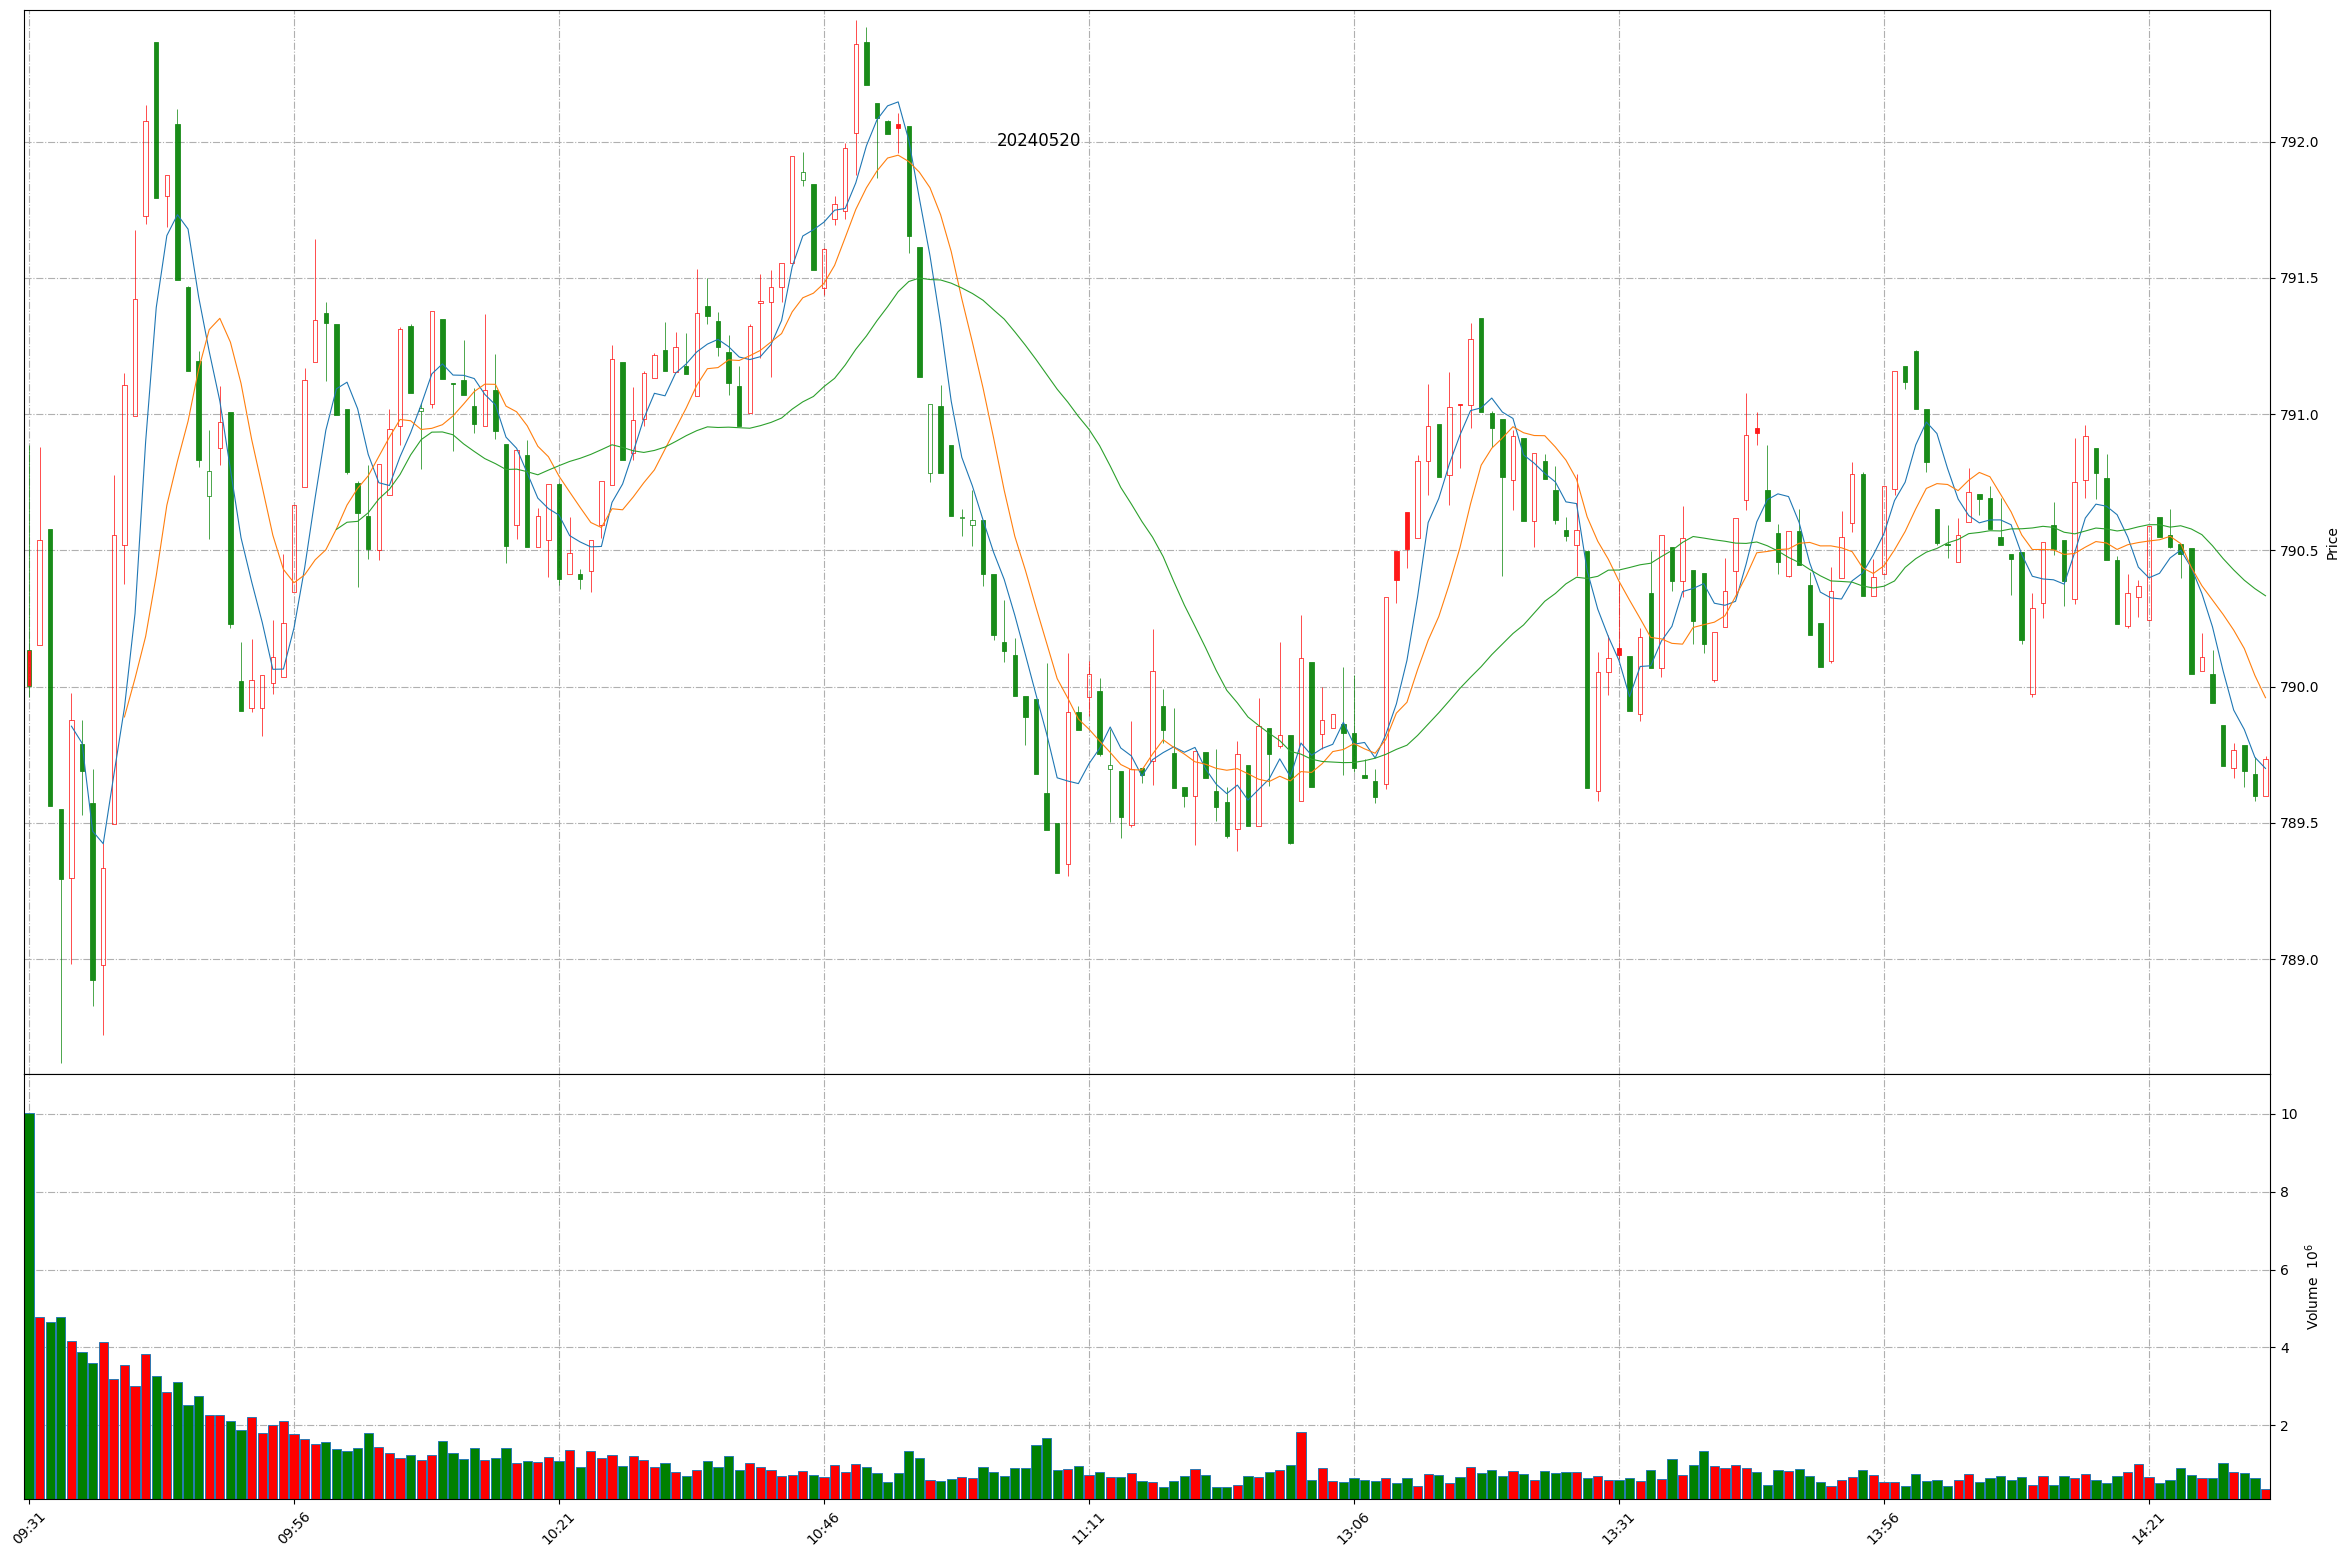
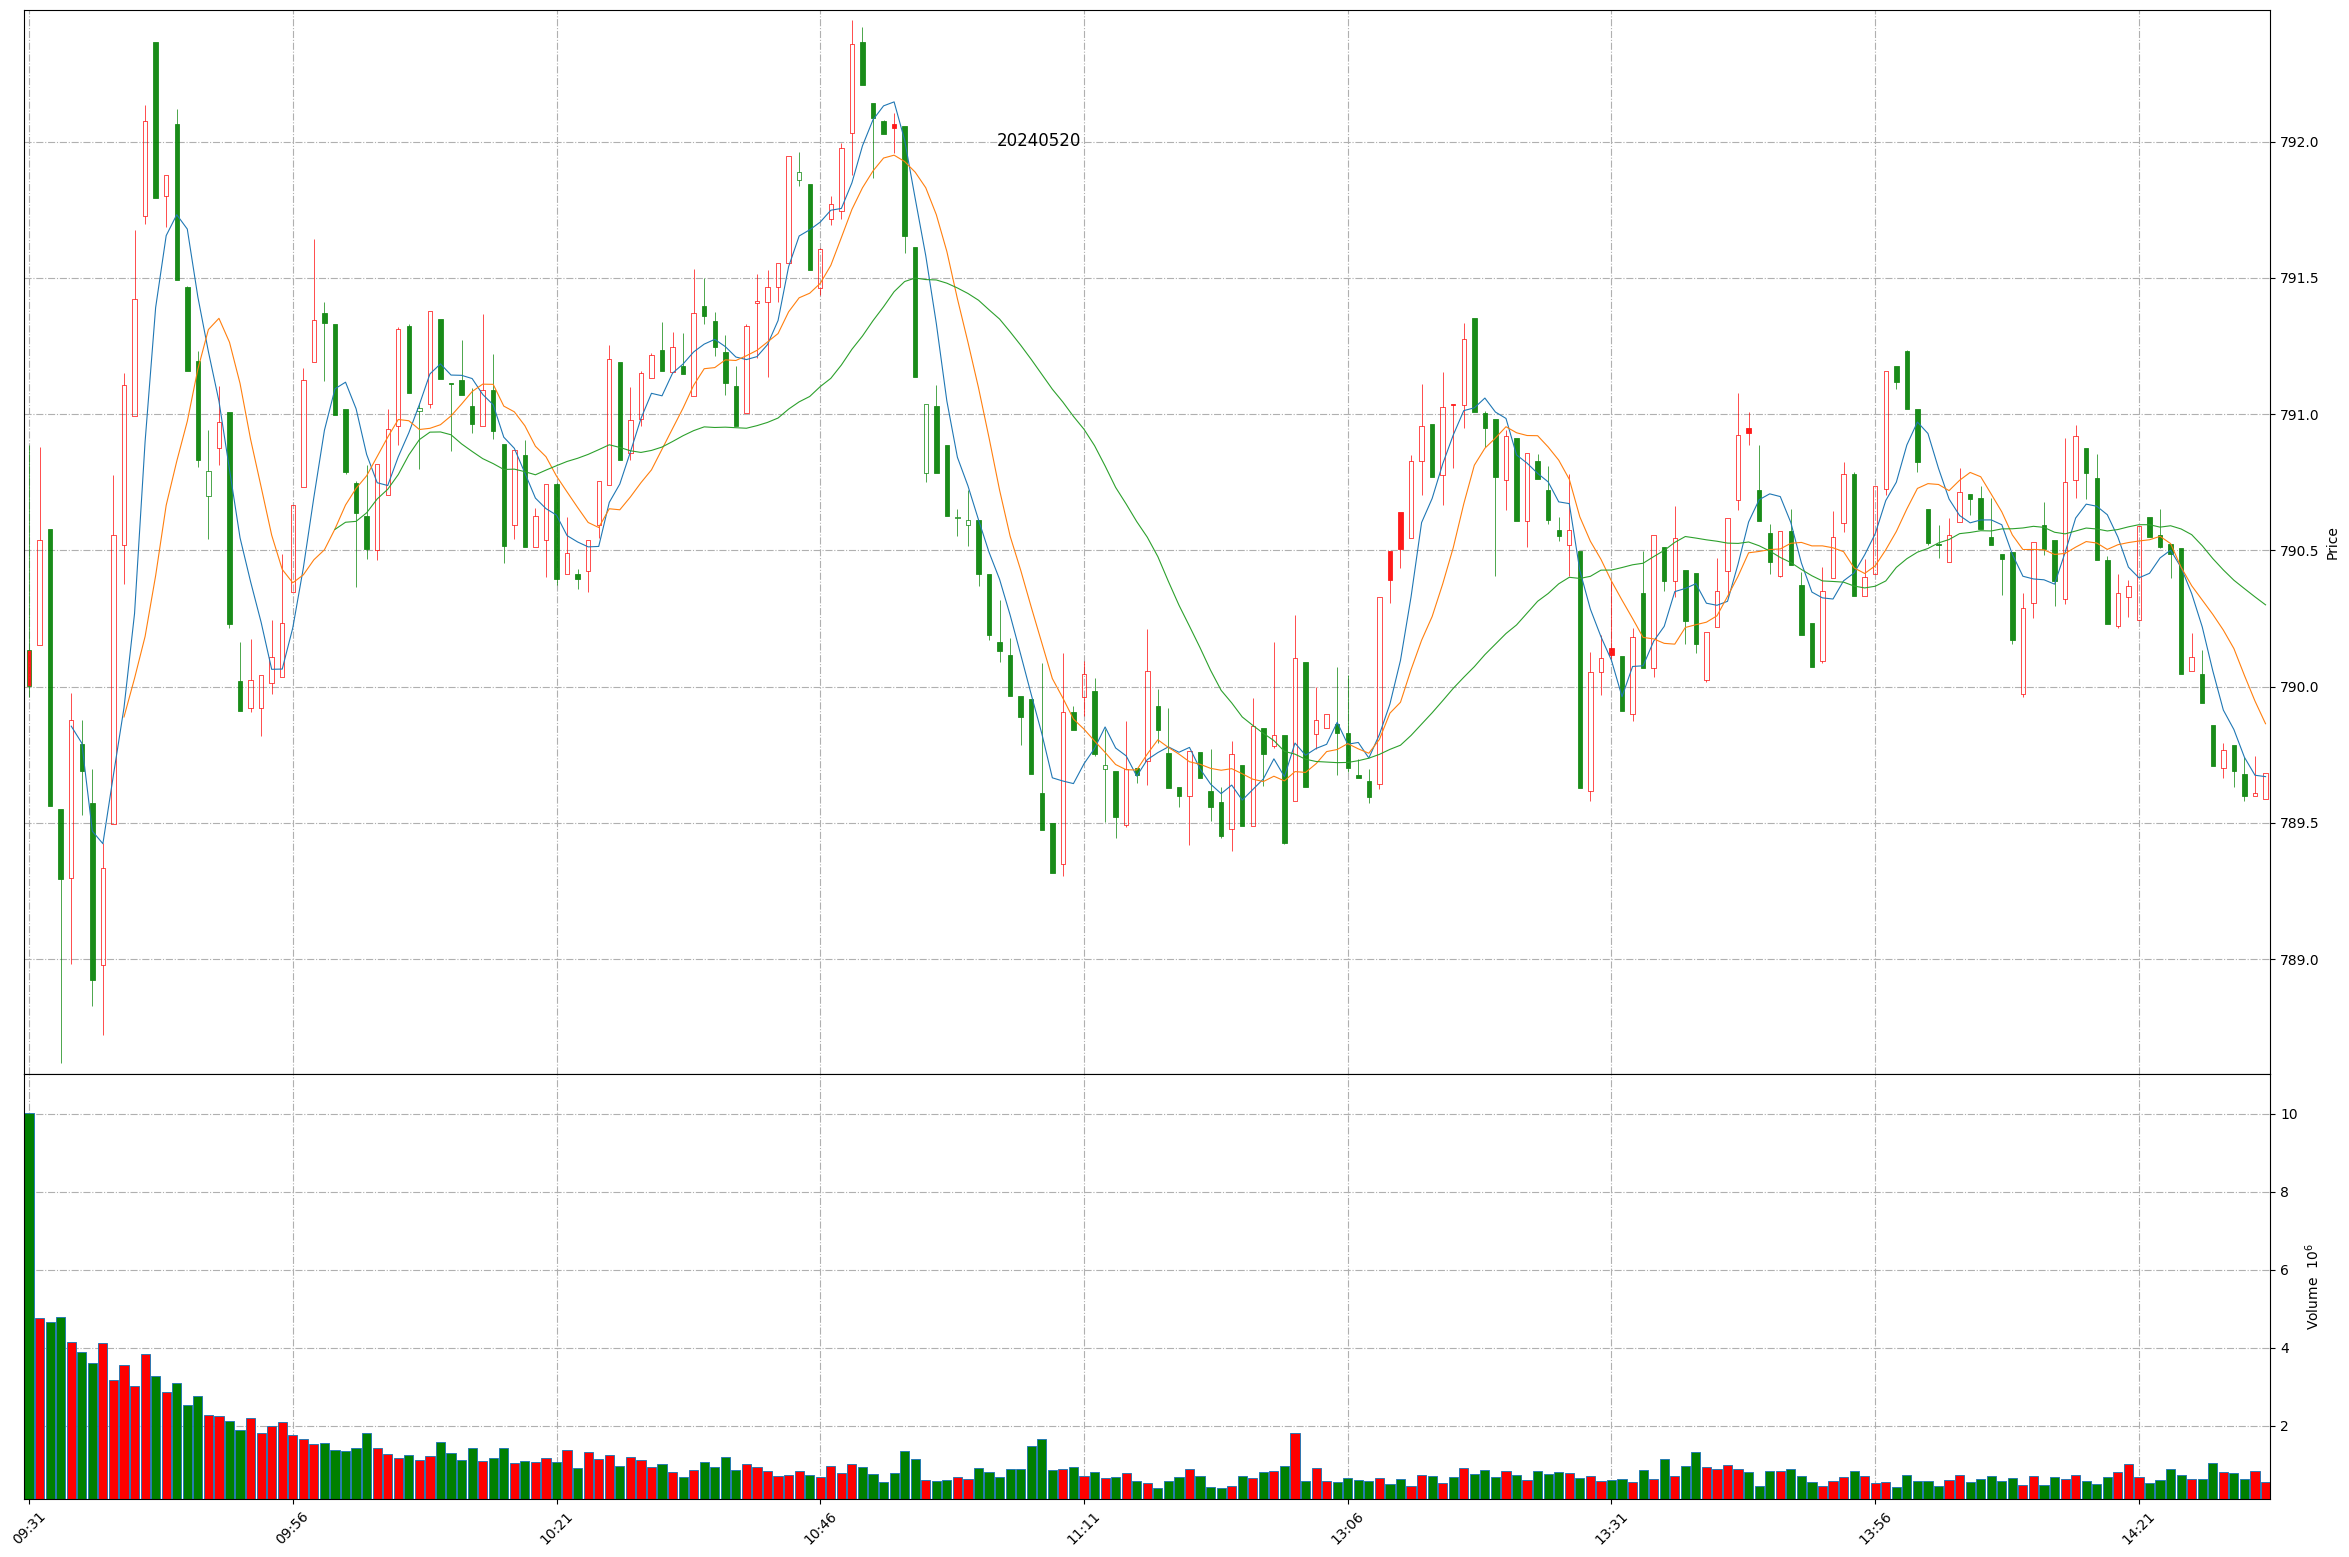
Github action update at 2024-05-20 14:32:51.

diff --git a/README.md b/README.md
@@ -1,11 +1,11 @@
 
 # Daily-A-share-market-quotes 每日 A 股指数（5min 更新）- 20240520
 
-### 上证指数 20240520 14:31
+### 上证指数 20240520 14:32
 ![](./fig/2024/5/20240520-sh000001.png)
 
-### 深证成指 20240520 14:31
+### 深证成指 20240520 14:32
 ![](./fig/2024/5/20240520-sz399001.png)
 
-### 北证50 20240520 14:31
+### 北证50 20240520 14:32
 ![](./fig/2024/5/20240520-bj899050.png)
